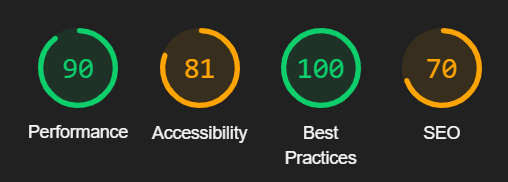
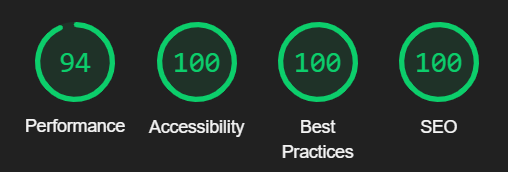
SEO, Accessibility and Performance

diff --git a/index.html b/index.html
@@ -5,20 +5,28 @@
     <meta http-equiv="X-UA-Compatible" content="IE=edge">
     <meta name="viewport" content="width=device-width, initial-scale=1.0">
     <title>TV Series</title>
-    <link rel="icon" type="image/x-icon" href="https://img.icons8.com/color/48/000000/netflix-desktop-app.png">
+    <link rel="icon" type="image/x-icon" href="https://img.icons8.com/external-icongeek26-linear-colour-icongeek26/50/000000/external-tv-monitor-devices-icongeek26-linear-colour-icongeek26.png">
+    
+    <meta name="title" content="tv series">
+    <meta name="description" content="Just a little web app that shows the most popular TV series of the week extracted from the MovieDB API. For true fans of TV series!">
+    <meta name="keywords" content="tv series, best tv series, netflix, amazon prime, disney+">
+    <meta name="author" content="Francesca Belfiore">
+    <meta name="copyright" content="2021">
+    <meta name="robots" content="INDEX,FOLLOW">
+    <meta name="creation_Date" content="12/02/2021">
+    <meta name="revisit-after" content="7 days">
 
     <link rel="stylesheet" href="css/normalize.css">
     <link rel="stylesheet" href="css/style.css">
 
     <script src="js/index.js" type="module"></script>
-
 </head>
 <body>
 
     <div class="hero">
         <header>
 
-            <a href="" id="back"><img id="logo" src="https://fontmeme.com/permalink/211201/523366db6f339a7e579ec30cff9de11f.png"></a>
+            <a href="index.html" id="back"><img id="logo" src="https://fontmeme.com/permalink/211201/523366db6f339a7e579ec30cff9de11f.png" alt="tv-series logo"></a>
 
             <div class="changeLanguage">
                 <select name="language" id="language" onchange="setLanguage(value),location.reload()">

diff --git a/tv-series.html b/tv-series.html
@@ -5,7 +5,7 @@
     <meta http-equiv="X-UA-Compatible" content="IE=edge">
     <meta name="viewport" content="width=device-width, initial-scale=1.0">
     <title>TV Series</title>
-    <link rel="icon" type="image/x-icon" href="https://img.icons8.com/color/48/000000/netflix-desktop-app.png">
+    <link rel="icon" type="image/x-icon" href="https://img.icons8.com/external-icongeek26-linear-colour-icongeek26/50/000000/external-tv-monitor-devices-icongeek26-linear-colour-icongeek26.png">
 
     <link rel="stylesheet" href="css/normalize.css">
     <link rel="stylesheet" href="css/style.css">
@@ -16,7 +16,7 @@
 
     <div class="hero">
         <header>
-            <a href="./index.html" id="back"><img id="logo" src="https://fontmeme.com/permalink/211201/523366db6f339a7e579ec30cff9de11f.png"></a>
+            <a href="./index.html" id="back"><img id="logo" src="https://fontmeme.com/permalink/211201/523366db6f339a7e579ec30cff9de11f.png" alt="tv-series logo"></a>
             
             <div class="changeLanguage">
                 <select name="language" id="language" onchange="setLanguage(value), location.reload()">

diff --git a/js/utils.js b/js/utils.js
@@ -34,8 +34,8 @@ export {loadBg};
 export function rendFooter() {
     const footer = document.querySelector("footer");
     render(footer, `<div>
-    <a href="https://github.com/Francesca-Belfiore"><img src="https://img.icons8.com/ios-filled/35/ffffff/github.png"/></a>
-    <a href="https://www.linkedin.com/in/francescabelfiore/"><img src="https://img.icons8.com/ios-filled/36/ffffff/linkedin.png"/></a>
+    <a href="https://github.com/Francesca-Belfiore"><img src="https://img.icons8.com/ios-filled/35/ffffff/github.png" alt="github logo"></a>
+    <a href="https://www.linkedin.com/in/francescabelfiore/"><img src="https://img.icons8.com/ios-filled/36/ffffff/linkedin.png" alt="linkedin logo"></a>
     <p>${lang.footerTitle}</p>
 
     <ul>

diff --git a/js/tv-series.js b/js/tv-series.js
@@ -20,7 +20,7 @@ function View(id = 0) {
                     render(article, `                
                     <h1>${serie.name}</h1>
                         <div class="description">
-                            <img src="${PATH}${serie.poster_path}">
+                            <img src="${PATH}${serie.poster_path}" alt="poster">
                             <div>                             
                                 <h3>${lang.description}:</h3><p>${serie.overview}</p>
                                 <p>${lang.year}: ${(serie.first_air_date).substring(0, 4)}, ${lang.genre}: ${serie.genres[0].name}</p>

diff --git a/js/list.js b/js/list.js
@@ -5,7 +5,7 @@ const List = (data) => {
     const elements = data.map((item) =>
         `<div class="scheda">
                 <a href="tv-series.html?id=${item.id}">
-                    <img src="${PATH}${item.backdrop_path}">
+                    <img src="${PATH}${item.backdrop_path}" alt="${item.name} poster">
                     <div class="titles">
                         <p>${item.name}</p>
                         ${(item.first_air_date).substring(0, 4)}

diff --git a/README.md b/README.md
@@ -1,5 +1,5 @@
 # TV-Series
-## My project for the Edgemony Bootcamp CodeWeek!
+
 
 Just a little web app that shows the most popular TV series of the week extracted from the MovieDB API.
 
@@ -14,6 +14,7 @@ For true fans of TV series!
 
 <ul>
 <li> List always updated</li>
+<li> Series overview and platform</li>
 <li> Multi-languages support:</li>
     <ul>
     <li> Italian</li>
